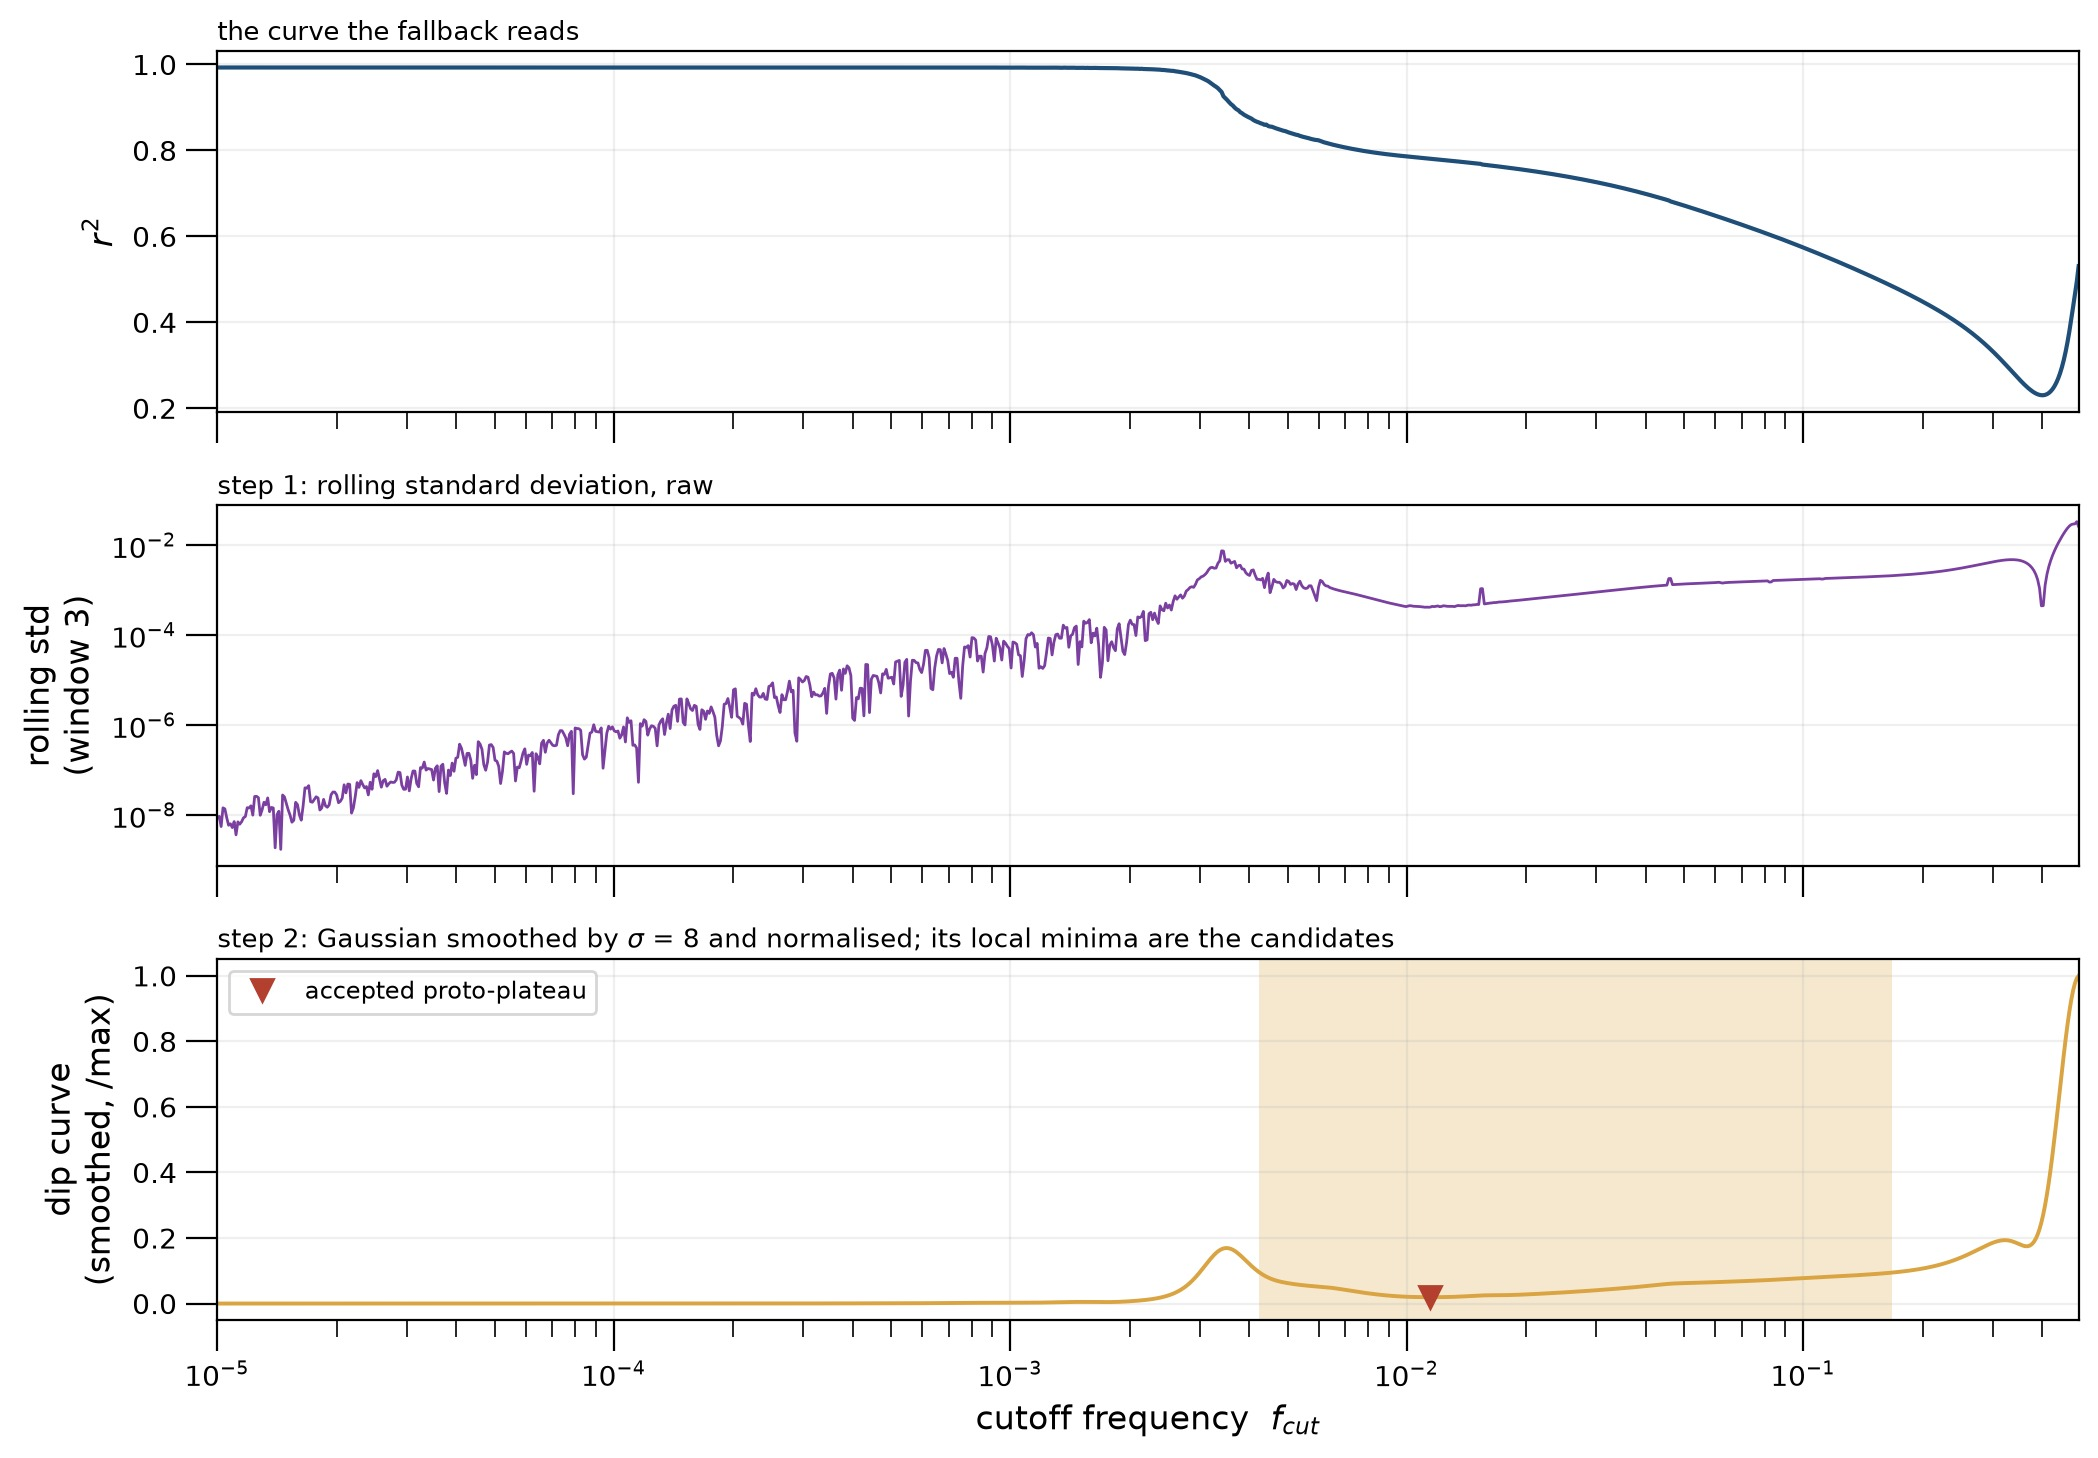
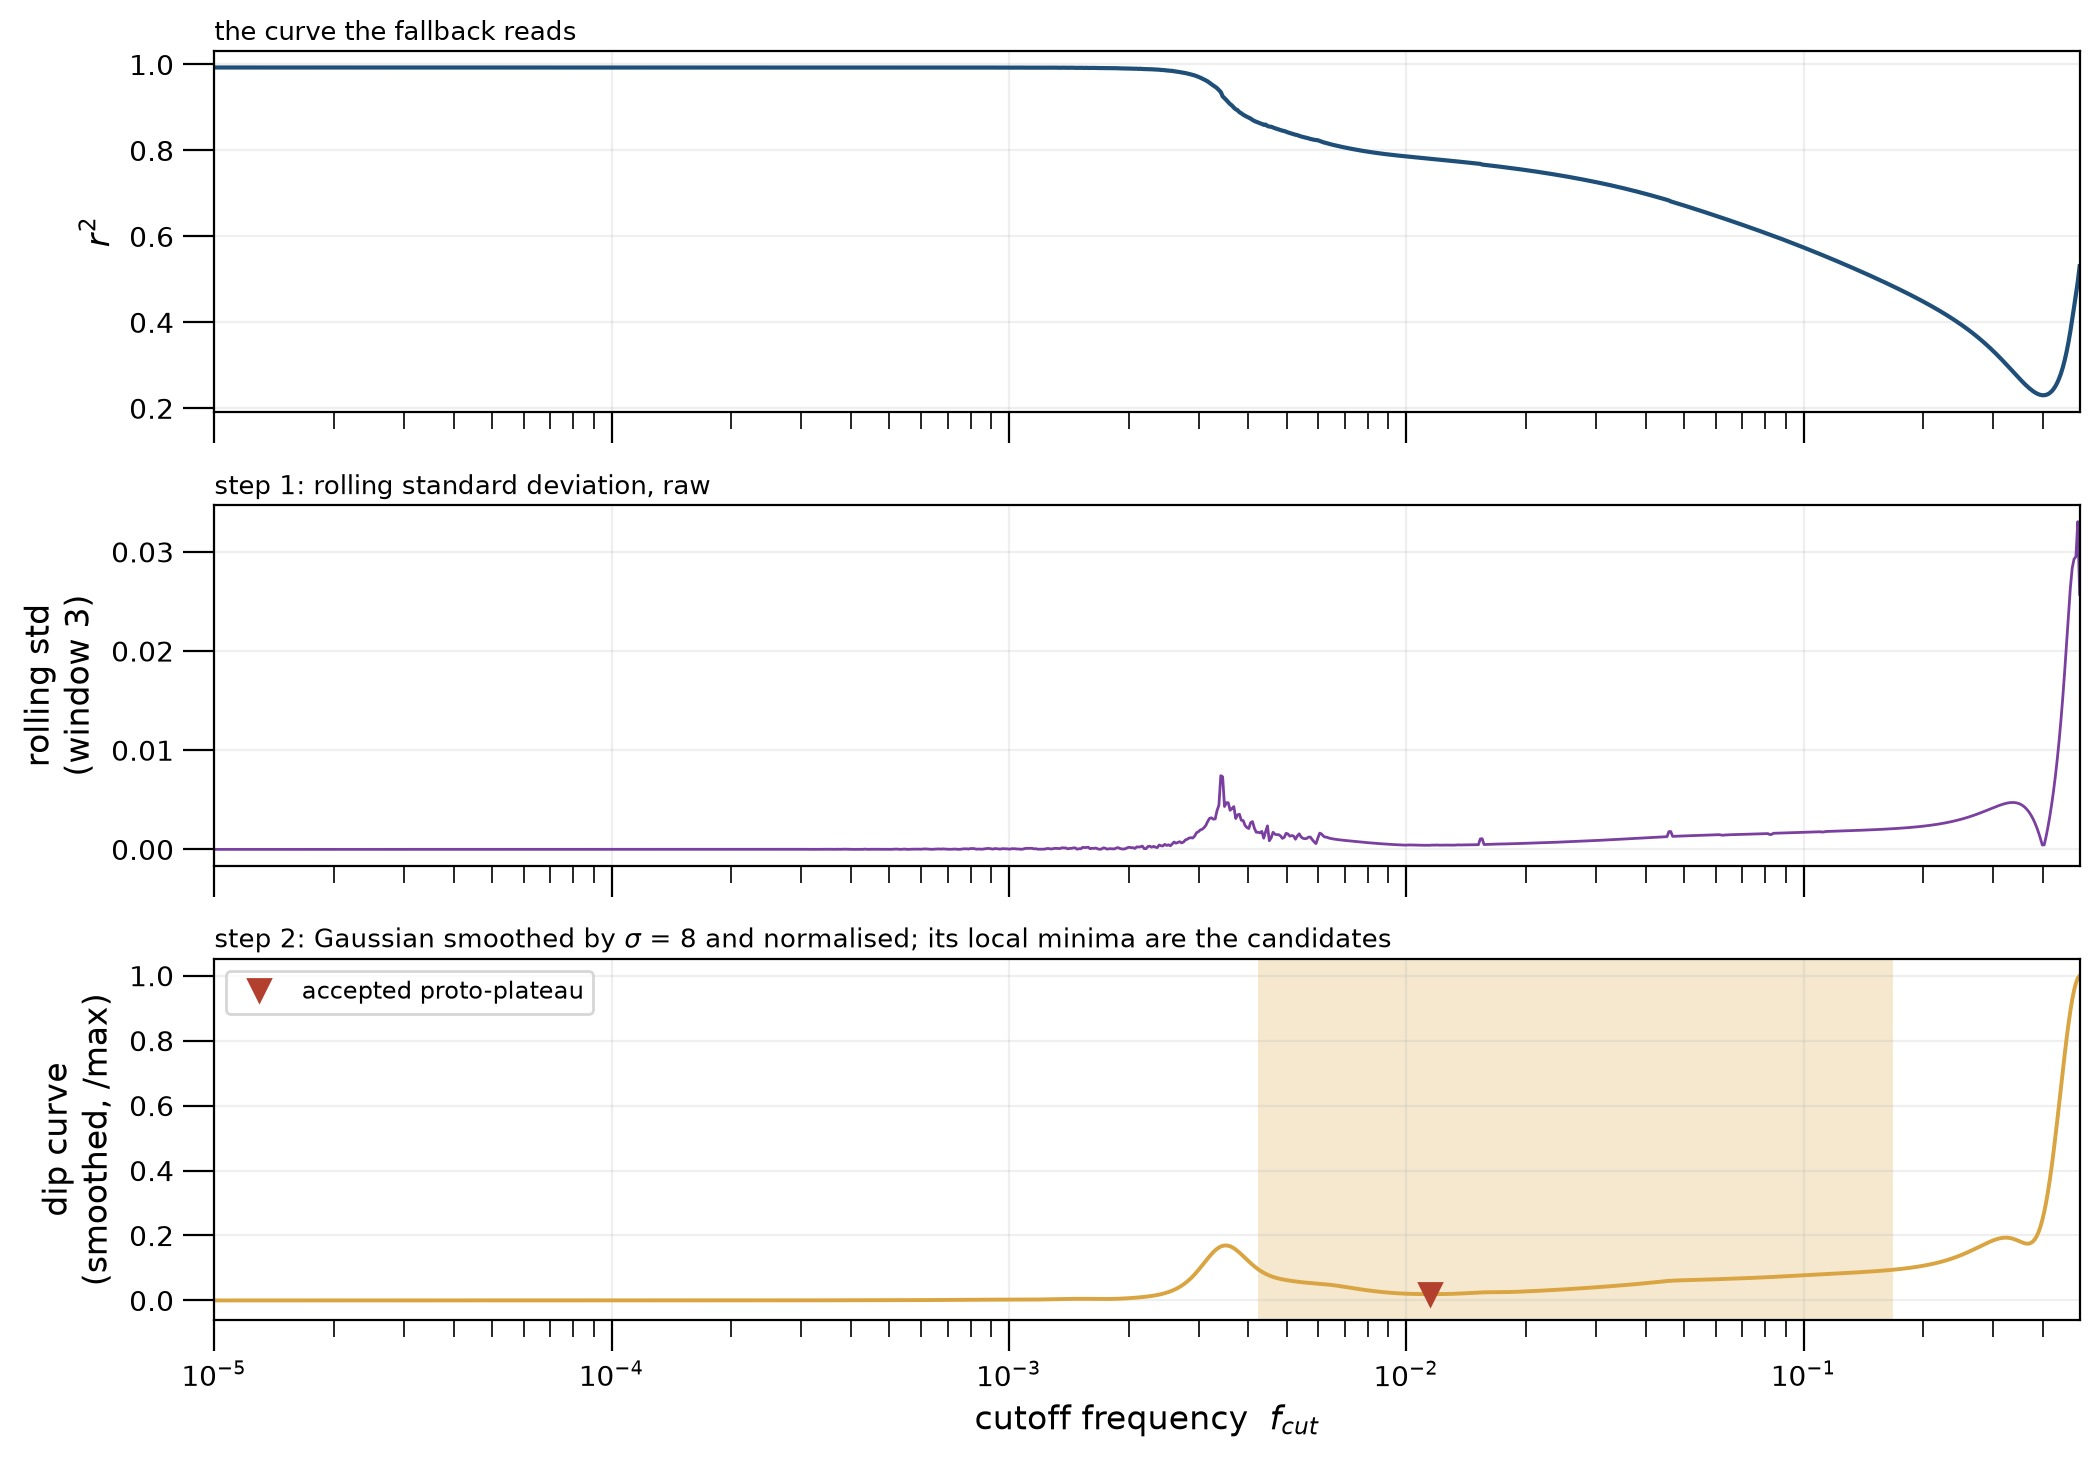
FIX: Repoint the figure scripts and match production's axes
Four scripts still read `runs/DW_prod_2026-08-23`, deleted on
2026-08-24, so `fig_stage1`, `fig_stage23`, `fig_stages` and `fig_diag`
could not run at all and `method_three_stages.jpg` had quietly stopped
being reproducible. They now read `runs/PROD_2026-08-24`, which
reproduces the committed figures pixel for pixel.

`stage1_fallback` drew its rolling-standard-deviation panel on a
logarithmic vertical axis and left its dip-curve panel unbounded, where
`plot.r2_plots` uses `semilogx` throughout and pins the dip curve to
`(-0.06, 1.05)`. A log axis there spreads the settled floor into
apparent structure, which is the same failure the sensitivity curve
had. Both panels now match production.

`stage1_segments` shaded its alternating segments at `alpha=.07`, about
nine levels of 255 against white, below what the JPEG holds at this
size; at `.15` the separation is twenty-one levels.

`stage1_features` placed the three threshold labels with a leading
space, whose width depends on the font. They now carry an explicit
offset in points.

diff --git a/tools/fcut/figures/fig_stage1.py b/tools/fcut/figures/fig_stage1.py
@@ -25,7 +25,7 @@ from weaselytics.segmentation import (  # noqa: E402
     classify_segments, pelt_linear, segment_features)
 
 CACHE = ('/home/esteban/Simulation/DFT/separation_part2/runs/'
-         'DW_prod_2026-08-23/r2_cache')
+         'PROD_2026-08-24/r2_cache')
 OUT = os.path.dirname(os.path.abspath(__file__))
 STEM = 'Chlorobenzene__LPYE__60-70__2'
 DPI = 200
@@ -58,7 +58,7 @@ def fig_segments(fr, r2, segs):
         for k, s in enumerate(segs):
             if k % 2:
                 ax.axvspan(fr[s['start']], fr[s['end'] - 1],
-                           color='0.45', alpha=.07, lw=0, zorder=0)
+                           color='0.45', alpha=.15, lw=0, zorder=0)
 
     ax = axes[0]
     ax.plot(fr, r2, lw=4.0, color='0.86', zorder=2,
@@ -137,12 +137,15 @@ def fig_features(segs):
     ax.grid(alpha=.2, which='both')
     ax.set_xlim(FLOOR, max(rs.max() * 3, 4))
     ax.set_ylim(min(rn.min() * 0.5, 1e-5), max(rn.max() * 4, 0.05))
-    ax.text(REL_SLOPE_MAX, ax.get_ylim()[1], ' tight 0.2', fontsize=8.5,
-            color='#2e6b4a', va='top', rotation=90, ha='left')
-    ax.text(REL_SLOPE_LOOSE, ax.get_ylim()[1], ' loose 0.6', fontsize=8.5,
-            color='#8a6a1f', va='top', rotation=90, ha='left')
-    ax.text(CLIFF_MIN, ax.get_ylim()[1], ' cliff 1.0', fontsize=8.5,
-            color=CLIFF, va='top', rotation=90, ha='left')
+    # Offset in points rather than a leading space, so the gap to the
+    # line is set here and does not depend on the font's space width.
+    for xpos, txt, col in ((REL_SLOPE_MAX, 'tight 0.2', '#2e6b4a'),
+                           (REL_SLOPE_LOOSE, 'loose 0.6', '#8a6a1f'),
+                           (CLIFF_MIN, 'cliff 1.0', CLIFF)):
+        ax.annotate(txt, xy=(xpos, ax.get_ylim()[1]),
+                    xytext=(2.5, 0), textcoords='offset points',
+                    fontsize=8.5, color=col, va='top', rotation=90,
+                    ha='left')
     ax.text(ax.get_xlim()[0], REL_NOISE_MAX, ' quiet enough, 0.006',
             fontsize=8.5, color='#b3402f', va='bottom', ha='left')
     if clamped.any():

diff --git a/tools/fcut/figures/fig_stage23.py b/tools/fcut/figures/fig_stage23.py
@@ -17,7 +17,7 @@ from weaselytics.segmentation import (  # noqa: E402
     segment_features, select_center, trim_plateaus)
 
 CACHE = ('/home/esteban/Simulation/DFT/separation_part2/runs/'
-         'DW_prod_2026-08-23/r2_cache')
+         'PROD_2026-08-24/r2_cache')
 OUT = os.path.dirname(os.path.abspath(__file__))
 STEM = 'Chlorobenzene__LPYE__60-70__2'
 N_USED, DPI = 400, 200
@@ -55,7 +55,6 @@ def main():
                     loc='left', pad=4)
     ax[1].plot(fr, _rolling_std(r2, window=3), lw=1.0, color='#7a3fa0')
     ax[1].set_ylabel('rolling std\n(window 3)')
-    ax[1].set_yscale('log')
     ax[1].set_title('step 1: rolling standard deviation, raw',
                     fontsize=9.5, loc='left', pad=4)
     curve = dip_curve(r2)
@@ -67,6 +66,7 @@ def main():
         ax[2].axvspan(fr[dp['start']], fr[dp['end']], color=ORANGE,
                       alpha=.25, lw=0, zorder=1)
     ax[2].set_ylabel('dip curve\n(smoothed, /max)')
+    ax[2].set_ylim(bottom=-0.06, top=1.05)
     ax[2].set_title(r'step 2: Gaussian smoothed by $\sigma$ = 8 and '
                     'normalised; its local minima are the candidates',
                     fontsize=9.5, loc='left', pad=4)
@@ -89,7 +89,7 @@ def main():
              detected, KEEP),
             ('removed by the sub-fundamental clip and the region trim',
              tr['removed'], CUT),
-            ('removed by the collapse exclusion (SNR gate on)',
+            ('removed by the past-drop exclusion (SNR gate on)',
              tr['snr_removed'], '#7a3fa0'),
             ('removed by the stiff-side instability boundary',
              tr['instab_removed'], ORANGE),

diff --git a/tools/fcut/figures/fig_diag.py b/tools/fcut/figures/fig_diag.py
@@ -24,7 +24,7 @@ from weaselytics.parsers import ParsedData  # noqa: E402
 OUT = os.path.dirname(os.path.abspath(__file__))
 STEM = 'Chlorobenzene__LPYE__60-70__2'
 CACHE = ('/home/esteban/Simulation/DFT/separation_part2/runs/'
-         'DW_prod_2026-08-23/r2_cache')
+         'PROD_2026-08-24/r2_cache')
 
 
 def main():

diff --git a/tools/fcut/figures/fig_stages.py b/tools/fcut/figures/fig_stages.py
@@ -28,7 +28,7 @@ from weaselytics.segmentation import (  # noqa: E402
 )
 
 CACHE = ('/home/esteban/Simulation/DFT/separation_part2/runs/'
-         'DW_prod_2026-08-23/r2_cache')
+         'PROD_2026-08-24/r2_cache')
 OUT = os.path.dirname(os.path.abspath(__file__))
 STEM = 'Chlorobenzene__LPYE__60-70__2'
 N_USED = 400
